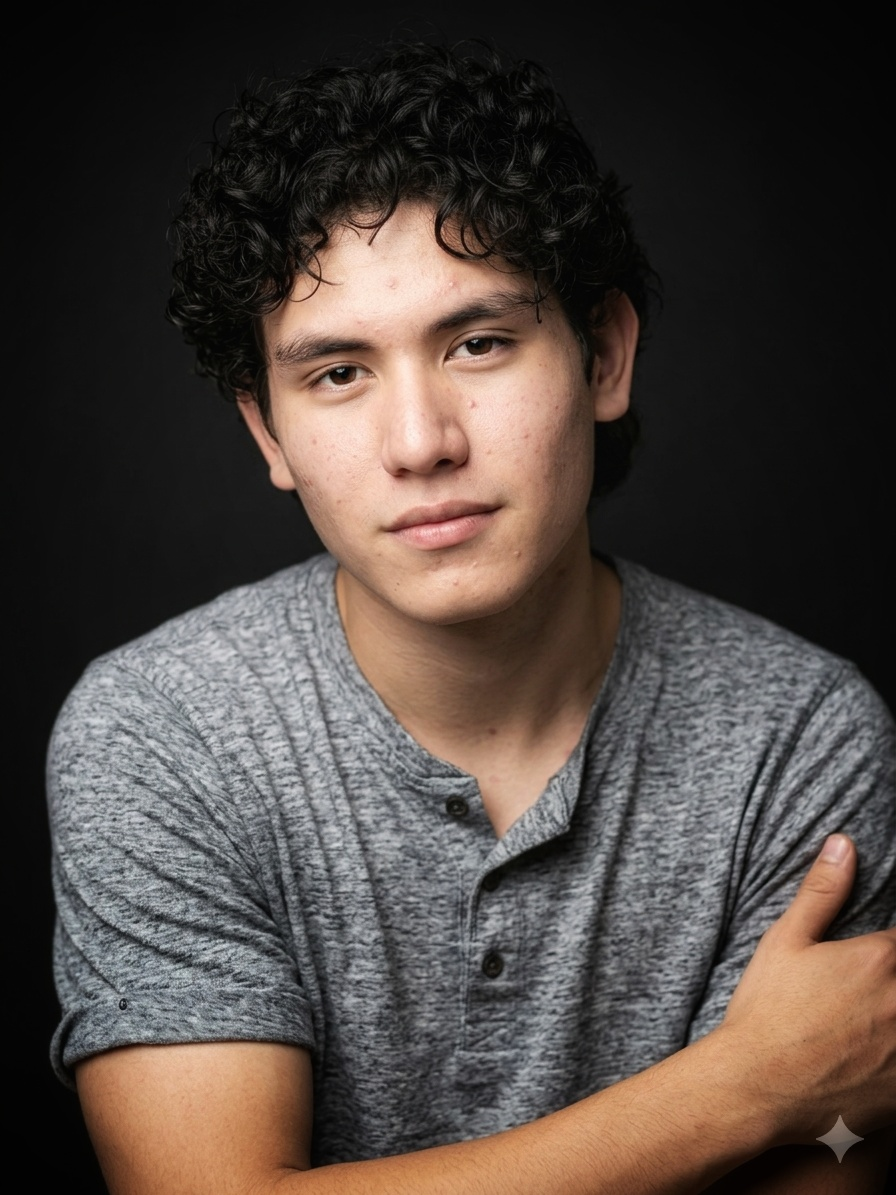
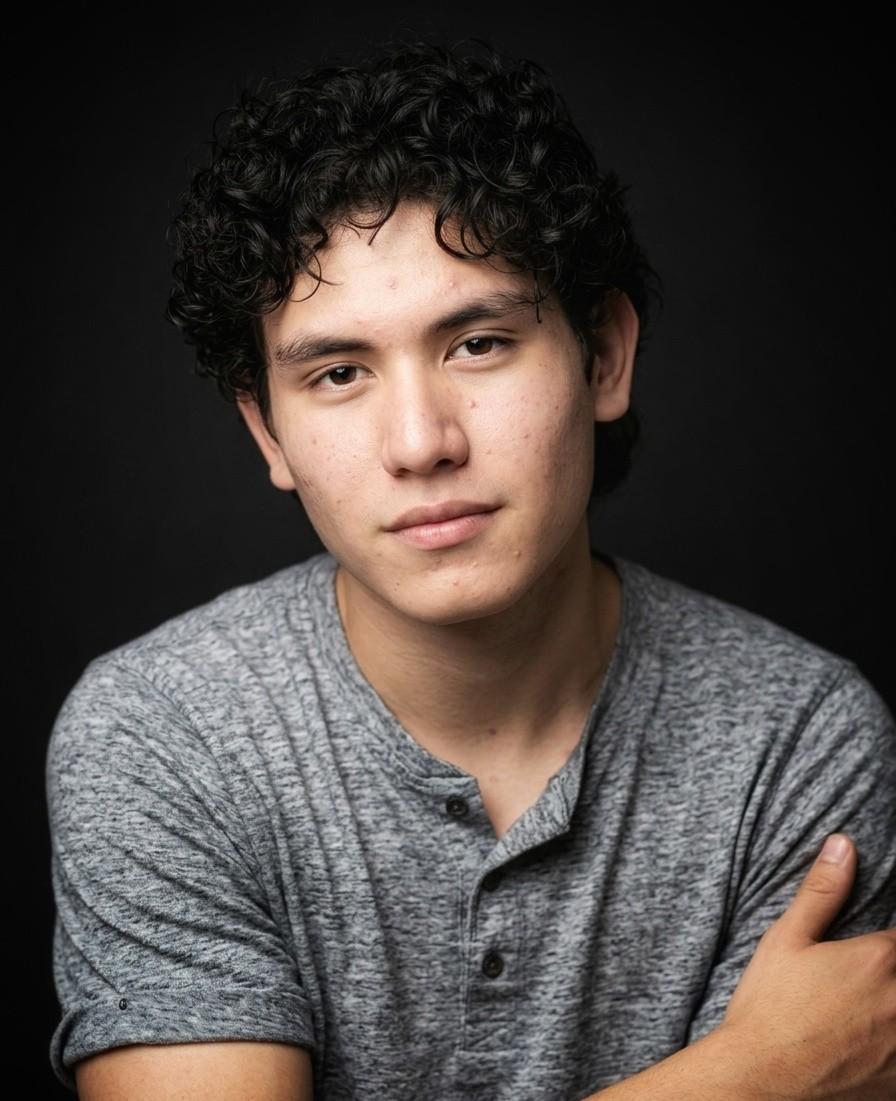
Melhoria e adição de conteúdo na sessão 'Sobre mim'

diff --git a/index.html b/index.html
@@ -19,8 +19,8 @@
             <nav class="main-menu">
                 <div class="imgs">
                     <a href="https://github.com/Joaovictor100"><img src="assets/img/github.svg" alt="GitHub"></a>
-                    <a href=""><img src="assets/img/linkedin.svg" alt="LinkedIn"></a>
-                    <a href=""><img src="assets/img/instagram.svg" alt="Intagram"></a>
+                    <a href="https://www.linkedin.com/in/jo%C3%A3o-victor-soares-36368423b/"><img src="assets/img/linkedin.svg" alt="LinkedIn"></a>
+                    <a href="https://www.instagram.com/_jv.soarezz_/"><img src="assets/img/instagram.svg" alt="Intagram"></a>
                 </div>
                 <ul>
                     <li><a href="">Sobre mim</a></li>
@@ -45,7 +45,11 @@
                     <h3>Sobre mim</h3>
                     <div class="content">
                         <div class="text">
-                            
+                            Oi! Desde os 13 anos, sou apaixonado por tecnologia e trabalho como desenvolvedor de sistemas. Iniciei minha trajetória programando Arduínos com C++, desenvolvendo projetos que trabalhavam com entradas, saídas e controle de pinos.
+                            <br>
+                            Entrei na ETEC Machado de Assis aos 15 anos, onde adquiri conhecimentos teóricos fundamentais para minha trajetória profissional. Atualmente, estou fazendo o curso técnico superior em Análise e Desenvolvimento de Sistemas (EAD) na UNIP, participando de projetos práticos em grupo.
+                            <br>
+                            Além da faculdade, dedico-me ao estudo autodidata, explorando novas tecnologias e aprofundando meus conhecimentos em segurança da informação.
                         </div>
                         <img src="assets/img/perfil.jpg" alt="Sobre mim">
                     </div>

diff --git a/assets/css/main.css b/assets/css/main.css
@@ -23,6 +23,8 @@ h1,h2,h3,h4 {
 a {
     color: var(--color-1);
 }
+
+
 ::selection {
     background: var(--color-2);
     color: var(--color-1);
@@ -59,6 +61,7 @@ main {
 body {
     background: linear-gradient(-45deg, var(--color-2), #03070a, #071018, #071018, #03070a, var(--color-2));
     background-size: 400% 400%;
+    font-family: 'Google Sans';
     color: var(--color-3);
     animation: moverBackg 10s ease infinite alternate;
 }
@@ -120,24 +123,34 @@ body {
     display: flex;
 }
 .sobre .container {
-    width: 70%;
+    width: min-content;
     margin-inline: auto;
     border: 1px solid var(--color-5);
     border-radius: 20px;
-    padding: 20px;
+    padding: 38px 55px;
 }
 .sobre .content {
+    width: 50vw;
+    margin-block: 20px;
     display: flex;
-    justify-content: space-around;
+    justify-content: space-between;
     align-items: center;
 }
+.sobre .text {
+    margin-right: 90px;
+    width: 60%;
+    height: 100%;
+}
 .sobre img {
-    width: 20vw;
-    border-radius: 20px;
+    width: 235px;
+    border-radius: 10%;
 }
 @media only screen and (max-width: 1300px) {
     .terminal {
         font-size: 0.85rem;
+    }
+    .sobre .content {
+        width: 80vw;
     }
     #terminal-text {
         width: 70%;
@@ -150,6 +163,25 @@ body {
     }
     body {
         font-size: 0.9rem;
+    }
+    .sobre .content {
+        display: flex;
+        flex-direction: column;
+        justify-content: center;
+        width: 70vw;
+    }
+    .sobre h3 {
+        text-align: center;
+    }
+    .sobre .text {
+        order: 2;
+        text-align: center;
+        margin: 0;
+        width: 80%;
+    }
+    .sobre img {
+        order: 1;
+        margin-block: 40px;
     }
     .banner h1 {
         font-size: 3rem;

diff --git a/assets/js/terminal.js b/assets/js/terminal.js
@@ -1,7 +1,7 @@
 const terminalText = document.querySelector('#terminal-text');
 
 const frases = [
-    'Possuo formação técnica em Desenvolvimento de Sistemas e, durante minha trajetória, tenho aprimorado habilidades e acumulado experiência no campo. Neste espaço, você poderá acessar meus projetos, habilidades, um resumo da minha trajetória e os objetivos que orientam minha carreira profissional'
+    'Possuo formação técnica em Desenvolvimento de Sistemas e tenho buscado constantemente aprimorar minhas habilidades. Aqui, você pode conferir meus projetos, competências e os objetivos que guiam minha carreira.'
 ];
 
 frases.forEach((frase, index) => {
